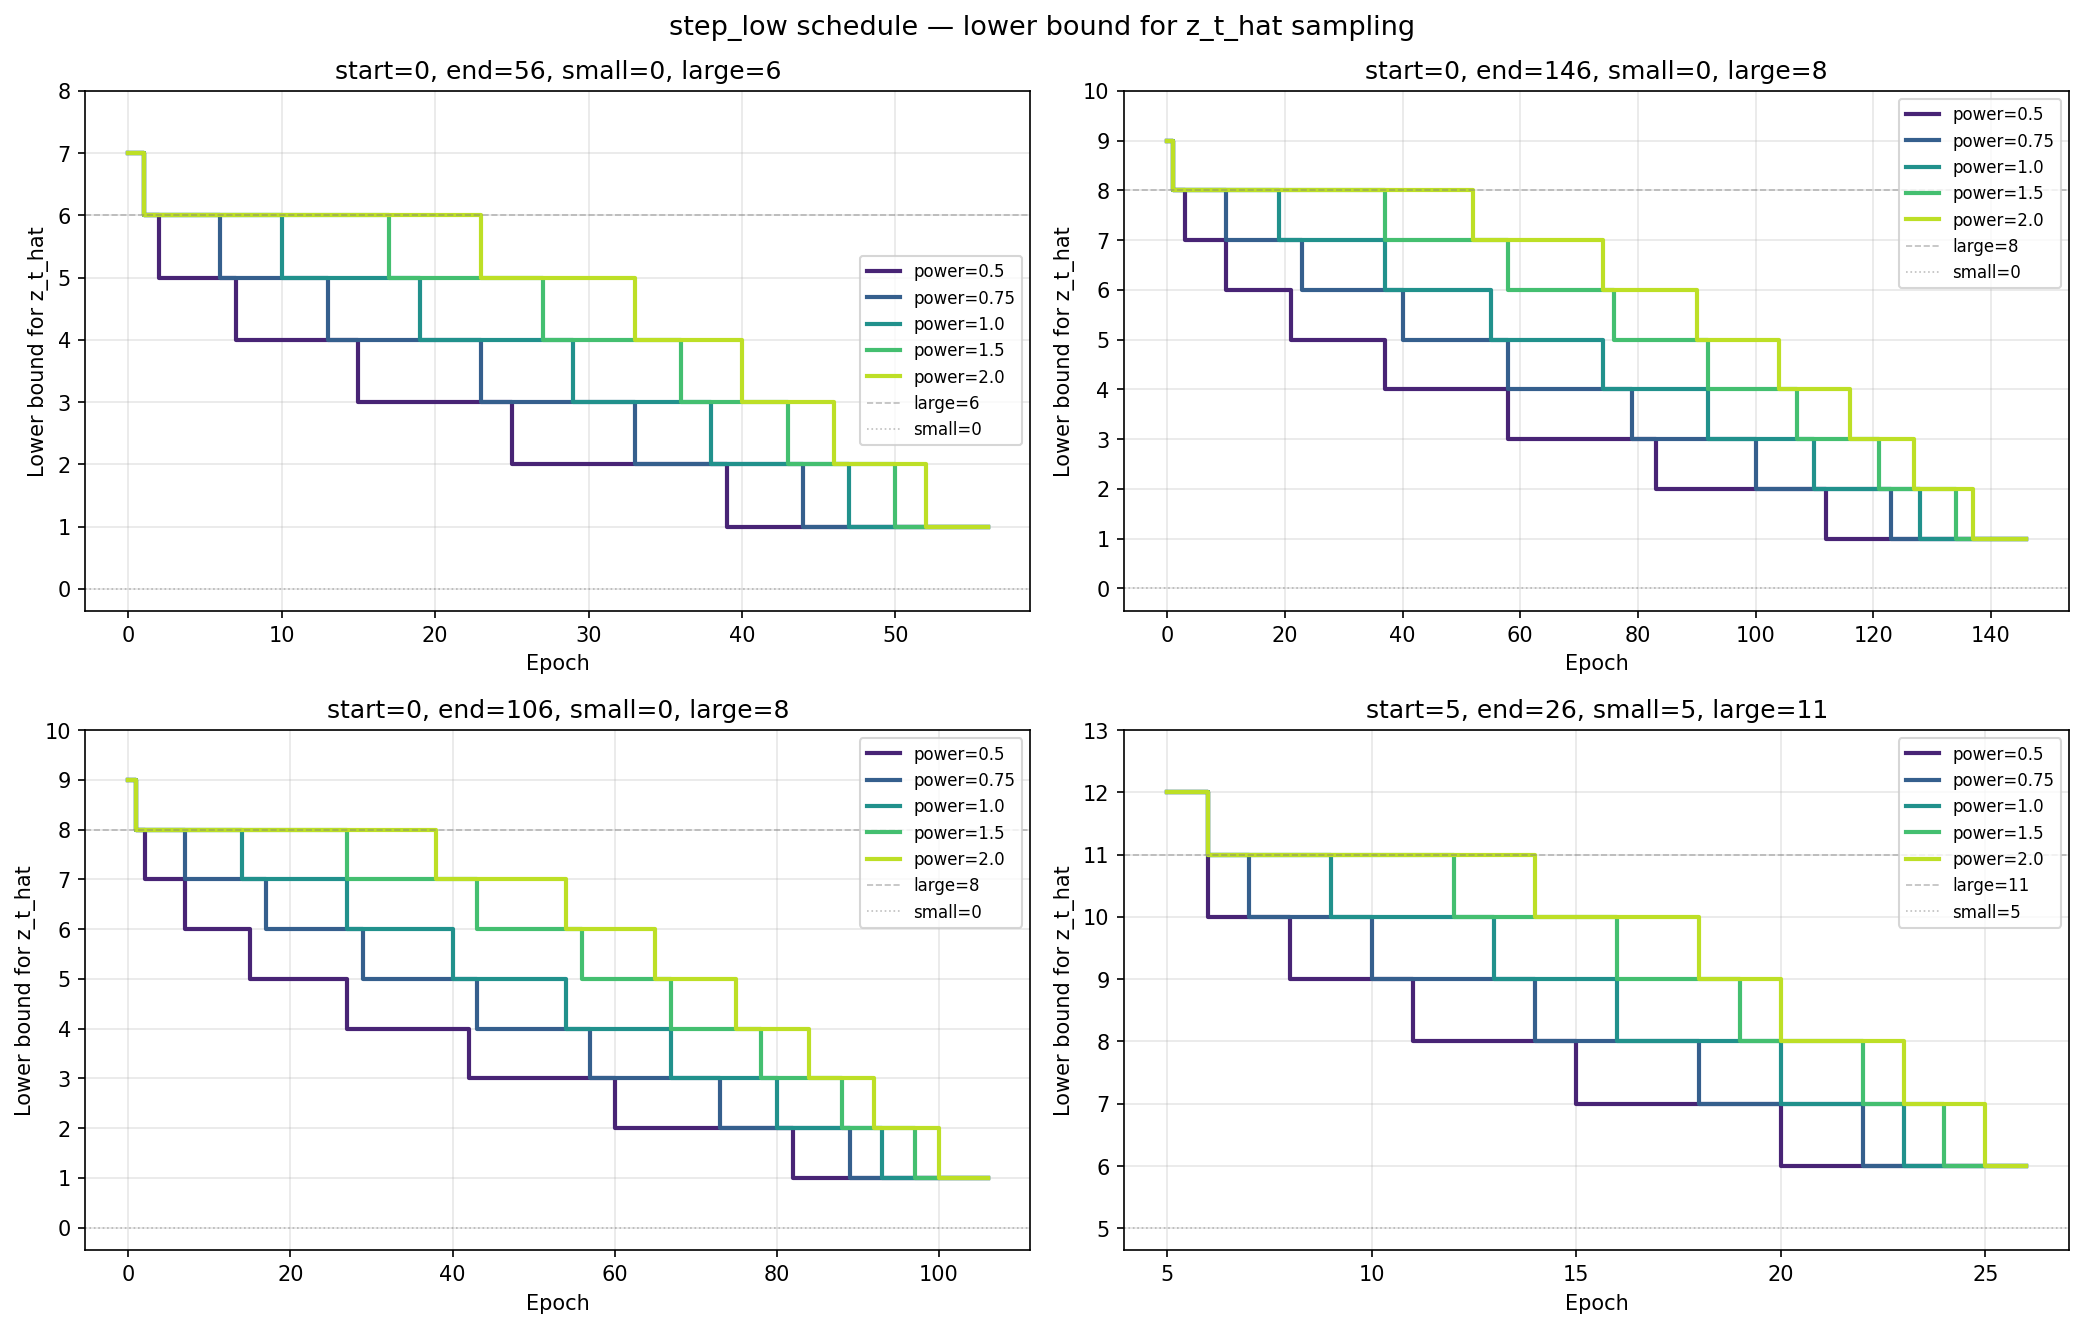
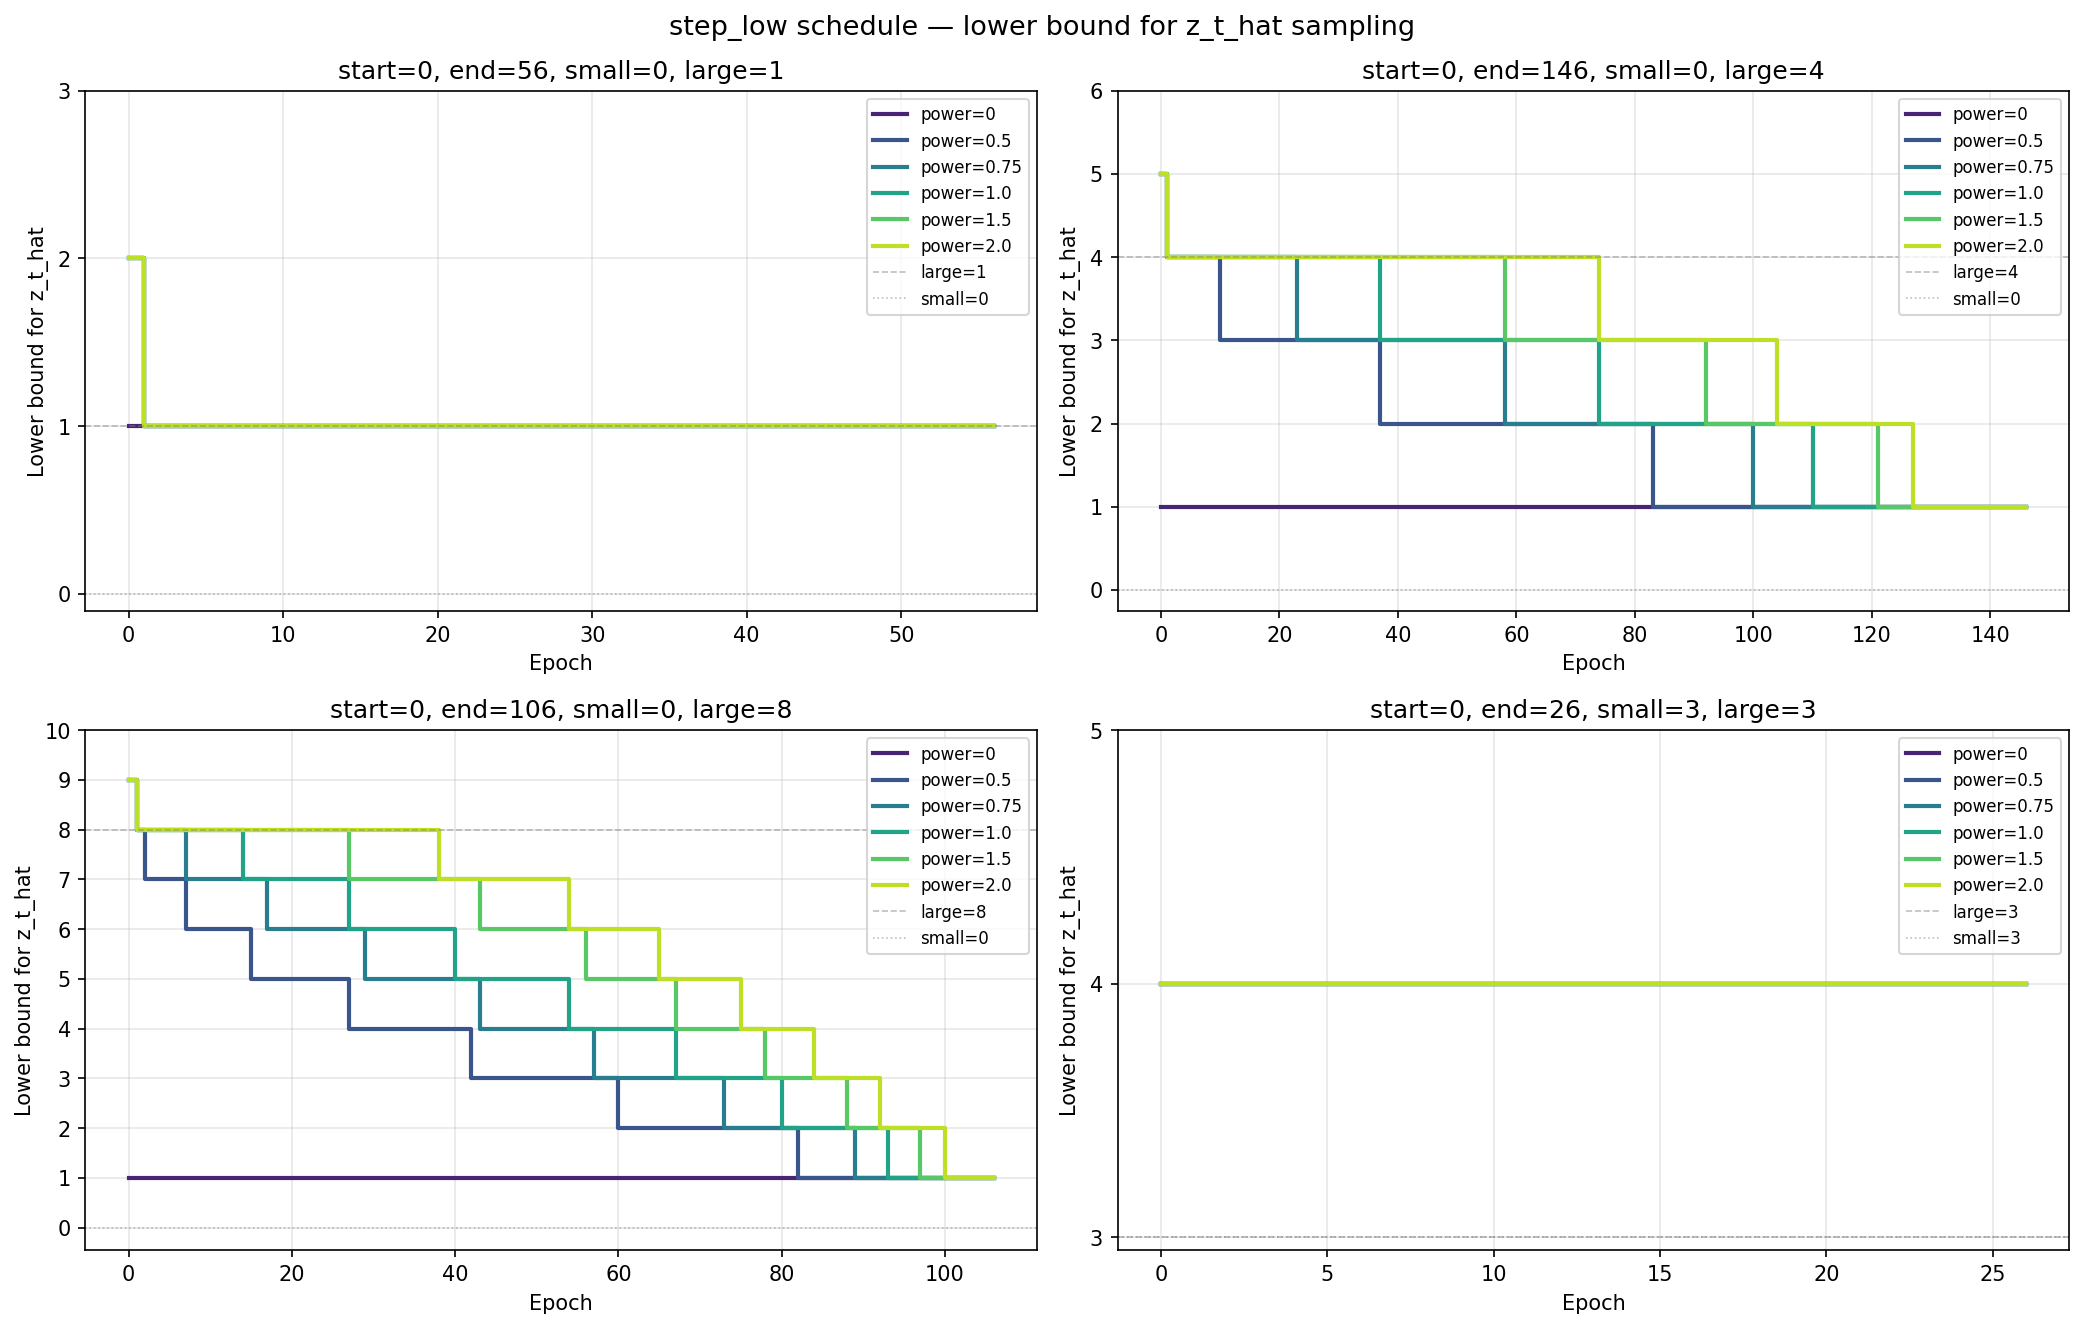
Change schedule

diff --git a/schedule.py b/schedule.py
@@ -34,17 +34,17 @@ def plot_schedule(ax, start_epoch, total_epoch, step_num_small, step_num_large, 
 
 # ── Configurations ────────────────────────────────────────────────────────────
 configs = [
-    dict(start_epoch=0, total_epoch=56, step_num_small=0, step_num_large=6,
-         title='start=0, end=56, small=0, large=6'),
-    dict(start_epoch=0,  total_epoch=146, step_num_small=0, step_num_large=8,
-         title='start=0, end=146, small=0, large=8'),
+    dict(start_epoch=0, total_epoch=56, step_num_small=0, step_num_large=1,
+         title='start=0, end=56, small=0, large=1'),
+    dict(start_epoch=0,  total_epoch=146, step_num_small=0, step_num_large=4,
+         title='start=0, end=146, small=0, large=4'),
     dict(start_epoch=0, total_epoch=106, step_num_small=0, step_num_large=8,
          title='start=0, end=106, small=0, large=8'),
-    dict(start_epoch=5,  total_epoch=26, step_num_small=5, step_num_large=11,
-         title='start=5, end=26, small=5, large=11'),
+    dict(start_epoch=0,  total_epoch=26, step_num_small=3, step_num_large=3,
+         title='start=0, end=26, small=3, large=3'),
 ]
 
-powers = [0.5, 0.75, 1.0, 1.5, 2.0]
+powers = [0, 0.5, 0.75, 1.0, 1.5, 2.0]
 
 fig, axes = plt.subplots(2, 2, figsize=(14, 9))
 fig.suptitle('step_low schedule — lower bound for z_t_hat sampling', fontsize=13)
